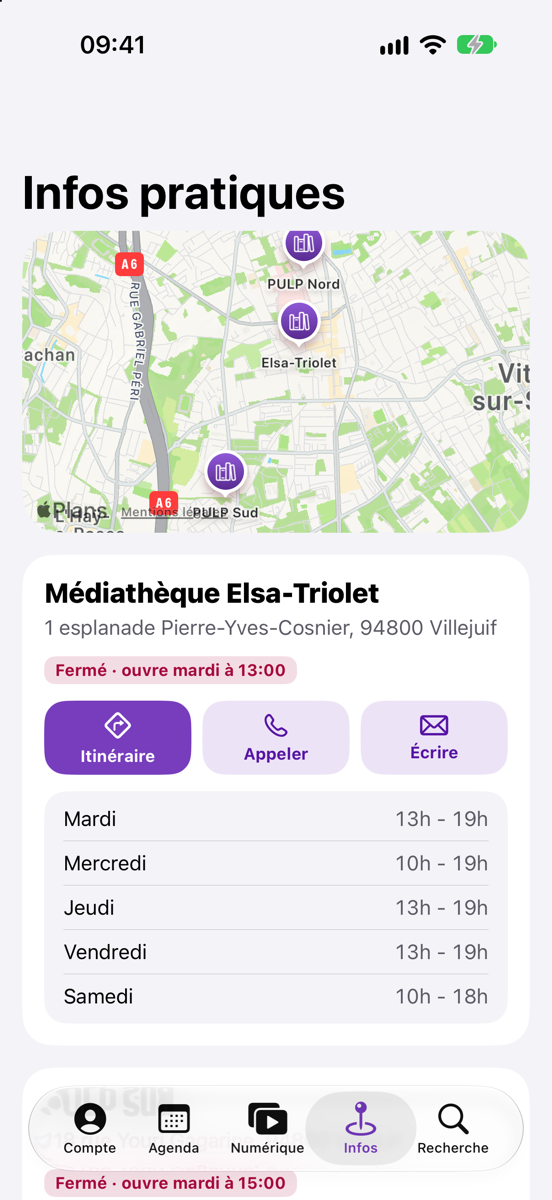
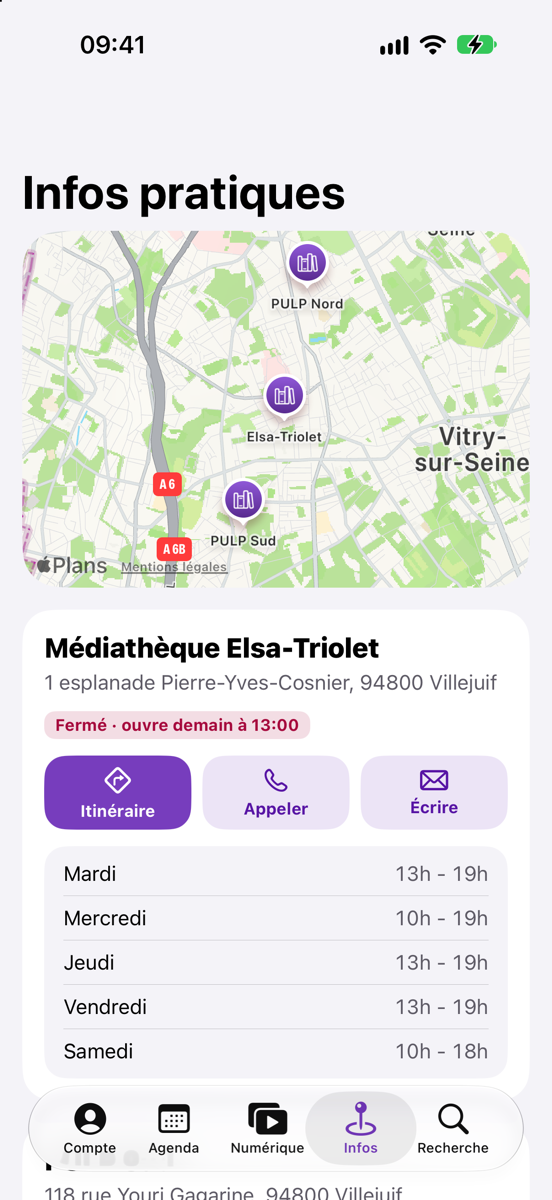
Show the account screen in the README and refresh the Infos screenshot
The gallery gains Mon compte, with the demo patron's library card (fictional
data: Camille Martin, card 0012345). The Infos screenshot shows the corrected
library positions on the new map.

Changed region(s): [[0.0308, 0.185, 0.9855, 0.8942], [0.0616, 0.9558, 0.7391, 1.0], [0.8315, 0.0308, 0.8623, 0.0617]]

diff --git a/README.md b/README.md
@@ -16,11 +16,12 @@ Vos prêts, vos réservations, l'agenda, le catalogue et la médiathèque numér
 </div>
 
 <p align="center">
-  <img src="Docs/screenshots/connexion.png" width="19%" alt="Écran de connexion">
-  <img src="Docs/screenshots/recherche.png" width="19%" alt="Recherche dans le catalogue, avec la disponibilité par médiathèque">
-  <img src="Docs/screenshots/agenda.png" width="19%" alt="Agenda des animations du mercredi">
-  <img src="Docs/screenshots/numerique.png" width="19%" alt="Médiathèque numérique : Arte VOD, presse, formation">
-  <img src="Docs/screenshots/infos.png" width="19%" alt="Infos pratiques : carte des trois médiathèques et horaires">
+  <img src="Docs/screenshots/connexion.png" width="16%" alt="Écran de connexion">
+  <img src="Docs/screenshots/compte.png" width="16%" alt="Mon compte : carte d'abonné avec son code-barres, prêts et réservations (données fictives)">
+  <img src="Docs/screenshots/recherche.png" width="16%" alt="Recherche dans le catalogue, avec la disponibilité par médiathèque">
+  <img src="Docs/screenshots/agenda.png" width="16%" alt="Agenda des animations du mercredi">
+  <img src="Docs/screenshots/numerique.png" width="16%" alt="Médiathèque numérique : Arte VOD, presse, formation">
+  <img src="Docs/screenshots/infos.png" width="16%" alt="Infos pratiques : carte des trois médiathèques et horaires">
 </p>
 
 > [!IMPORTANT]
